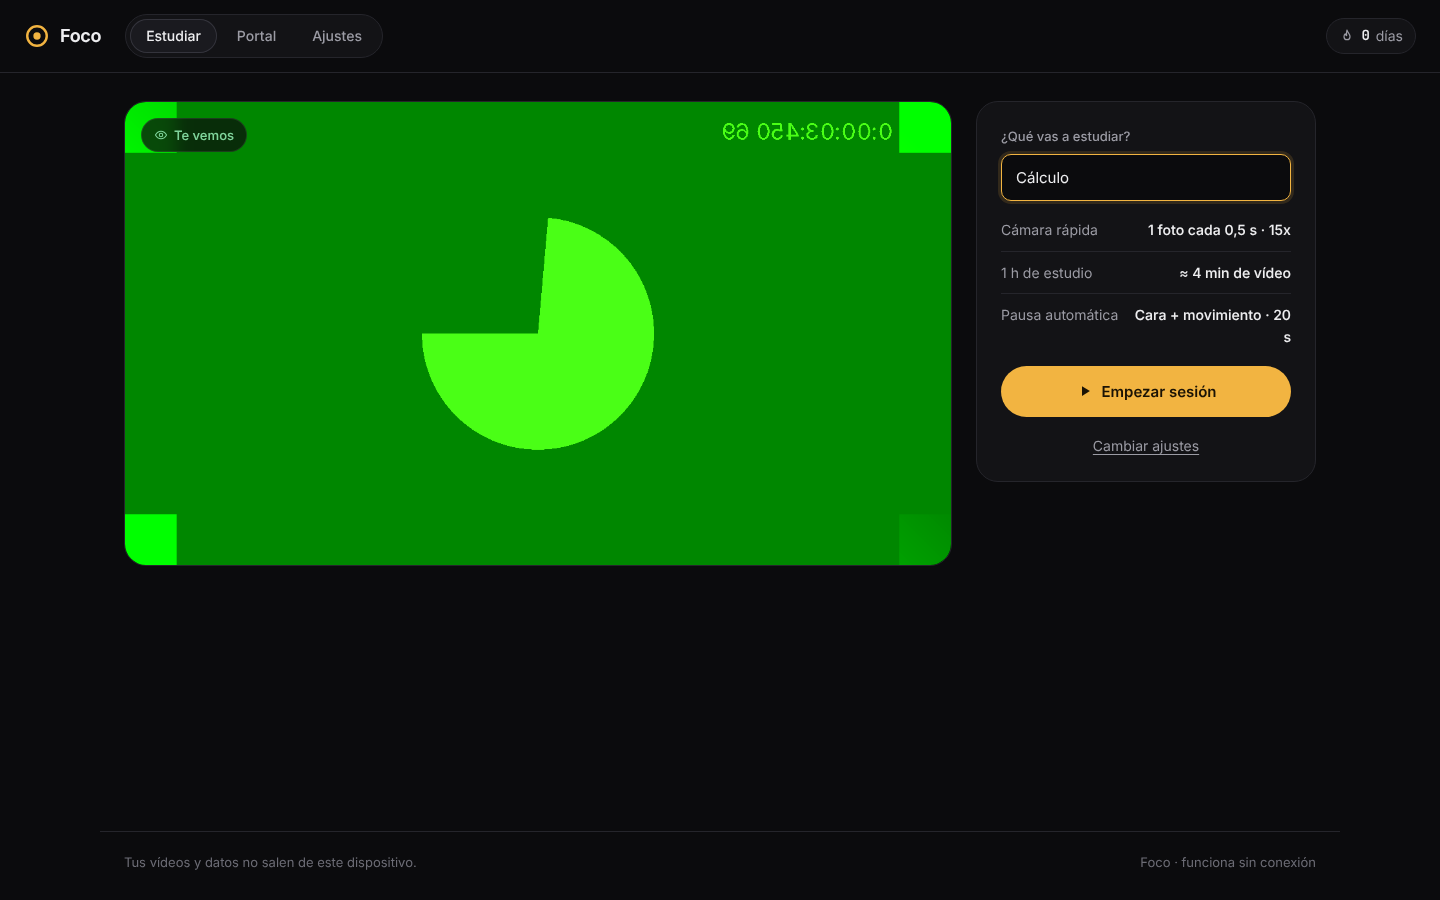
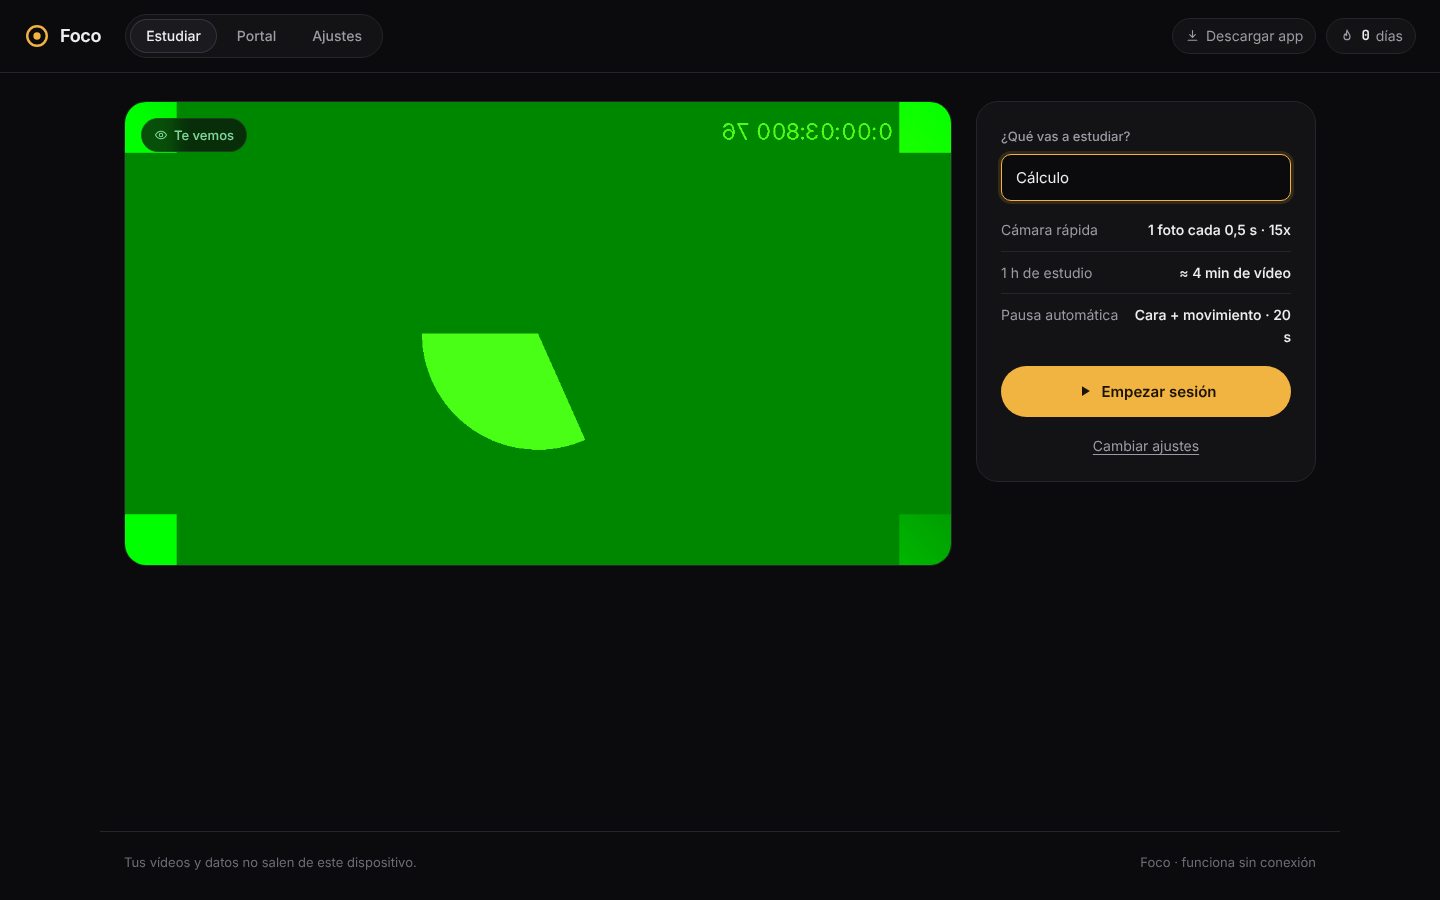
Instaladores en GitHub Releases y documentación de la app de escritorio
- release.yml: al subir una etiqueta vX.Y.Z compila dmg, exe y AppImage en
  macOS, Windows y Linux y los sube a la release (creada una sola vez).
- deploy.yml: la web no descarga el binario de Electron.
- README: descarga, primera apertura sin firma, dónde se guardan los datos.
- Capturas de la app de escritorio y capturas web regeneradas.

Claude-Session: https://claude.ai/code/session_01711A89UrXLR5phoRNTCftt

Changed region(s): [[0.375, 0.2489, 0.4688, 0.4978], [0.8125, 0.0311, 0.9062, 0.0622], [0.5, 0.1244, 0.5625, 0.1556]]

diff --git a/README.md b/README.md
@@ -2,7 +2,7 @@
 
 > Graba tus sesiones de estudio con la webcam, llévate un vídeo acelerado con la hora sobreimpresa y no rompas la racha. Todo en tu dispositivo, sin conexión.
 
-**Demo:** https://davidsmarandescu.github.io/Foco/
+**Demo:** https://davidsmarandescu.github.io/Foco/ · **App de escritorio** (macOS, Windows, Linux): [descargar](https://github.com/DavidSmarandescu/Foco/releases/latest)
 
 ![Sesión en curso](docs/screenshots/escritorio-grabando.png)
 
@@ -35,6 +35,34 @@ Los vídeos de estudio en cámara rápida (*study with me*, *timelapse*) son una
 - **Funciona sin red.** Un service worker precachea toda la app, incluido el runtime de visión y las fuentes, en la primera visita. Después funciona en modo avión.
 - **Copias de seguridad en JSON** (sesiones, rachas y ajustes) y botón para pedir almacenamiento persistente (`navigator.storage.persist()`) y que el navegador no borre los datos.
 
+## App de escritorio
+
+En la web, los datos viven en el navegador: si borras los datos del sitio (por ejemplo, al borrar las cookies), se pierden. La app de escritorio es la misma Foco, pero **guarda todo en tu ordenador**.
+
+**Descarga** la última versión en [Releases](https://github.com/DavidSmarandescu/Foco/releases/latest):
+
+| Sistema | Archivo |
+| --- | --- |
+| macOS con Apple Silicon (M1, M2, M3…) | `Foco-x.y.z-mac-arm64.dmg` |
+| macOS con Intel | `Foco-x.y.z-mac-x64.dmg` |
+| Windows 10/11 | `Foco-x.y.z-windows-setup.exe` |
+| Linux | `Foco-x.y.z-linux-x86_64.AppImage` |
+
+### Primera apertura
+
+La app no está firmada con un certificado de pago, así que el sistema avisa la primera vez. Solo hay que hacerlo una vez:
+
+- **macOS:** abre el `.dmg` y arrastra Foco a Aplicaciones. Al abrirla, macOS dirá que no puede verificar al desarrollador: pulsa **Hecho**, ve a **Ajustes del Sistema → Privacidad y seguridad**, baja hasta el aviso de Foco y pulsa **Abrir igualmente**. Si dice que la app «está dañada», ejecuta en Terminal `xattr -cr /Applications/Foco.app` y vuelve a abrirla. Después, acepta el permiso de cámara.
+- **Windows:** si aparece «Windows protegió su PC» (SmartScreen), pulsa **Más información → Ejecutar de todas formas** y sigue el instalador.
+- **Linux:** da permiso de ejecución y ábrela: `chmod +x Foco-*.AppImage && ./Foco-*.AppImage`.
+
+### Dónde se guardan tus datos
+
+- **Carpeta de Foco:** `Documentos/Foco` (se puede cambiar en Ajustes). Ahí se guarda cada vídeo como MP4 en `videos/` y tus sesiones, rachas y ajustes en `foco-datos.json`, que se actualiza tras cada cambio.
+- **Si reinstalas Foco** o cambias de usuario, la app detecta esa carpeta y ofrece **restaurar** sesiones y vídeos. Si eliges «Empezar de cero», la copia anterior se conserva como `foco-datos-anterior-<fecha>.json`.
+- **Borrar una sesión en Foco no borra su MP4** de la carpeta: los vídeos son tuyos.
+- Además, la app mantiene la cámara rápida aunque la ventana quede detrás de otra y la pantalla encendida mientras estudias.
+
 ## Decisiones técnicas
 
 | Decisión | Por qué |
@@ -45,8 +73,11 @@ Los vídeos de estudio en cámara rápida (*study with me*, *timelapse*) son una
 | **MediaPipe BlazeFace + movimiento** | Mirar hacia abajo para escribir puede despistar al detector de caras. Sumar el movimiento evita pausas falsas. El modo «Solo cara» es más estricto. |
 | **Tolerancia y reclasificación** de la ausencia | Un fallo puntual del detector no pausa nada. Cuando sí pausa, el tramo desde la última vez que se te vio pasa de «estudiado» a «ausente», así el tiempo es honesto. |
 | **Días locales** en rachas y calendario | Una sesión a las 00:30 cuenta para el día del calendario del usuario, y las rachas no se rompen con el cambio de hora (hay tests de ambos). |
-| **Lógica pura con tests** (`src/lib`) | Rachas, agregados, reloj de estudio, presencia, formatos y validación de ajustes y copias tienen tests en Vitest (32). |
+| **Lógica pura con tests** (`src/lib`) | Rachas, agregados, reloj de estudio, presencia, formatos, validación de ajustes y copias, y las escrituras en disco de la app de escritorio tienen tests en Vitest (39). |
 | **Vite + React + TypeScript**, sin backend | Se despliega como web estática en GitHub Pages con un workflow que pasa los tests antes de publicar. |
+| **Electron para escritorio**, con la misma web | Lleva el mismo Chromium con el que está probada la web (cámara, WebCodecs, MediaPipe), así que no hay sorpresas por motor. La web se sirve desde un protocolo propio (`app://foco`) con CSP estricta. La página no tiene acceso a Node (`contextIsolation`, `sandbox`): solo a un puente mínimo cuyas escrituras se validan y se limitan a la carpeta de Foco. |
+| **IndexedDB sigue siendo el almacén principal** en escritorio | Es el código ya probado. El disco es un espejo (MP4 + JSON) que sobrevive a reinstalar y que el usuario puede abrir y copiar. |
+| **Instaladores en GitHub Actions** | Al subir una etiqueta `vX.Y.Z`, se compilan el `.dmg`, el `.exe` y el `.AppImage` en macOS, Windows y Linux y se publican en la release. |
 
 ### Estructura
 
@@ -56,7 +87,9 @@ src/
   media/        cámara, superposición, detector de presencia, codificador, cierre de sesión
   storage/      IndexedDB y copias de seguridad
   components/   vistas: Estudiar, Portal, Ajustes, calendario
-scripts/        copia del runtime de MediaPipe a public/ e iconos
+  desktop/      puente con la app de escritorio y espejo en disco
+electron/       proceso principal, preload y utilidades de disco (app de escritorio)
+scripts/        copia del runtime de MediaPipe, iconos y pruebas de extremo a extremo
 ```
 
 ## Modelo de negocio
@@ -82,17 +115,36 @@ npm test
 npm run build
 ```
 
+App de escritorio en desarrollo (Vite + Electron con recarga):
+
+```bash
+npm run desktop:dev
+```
+
+Instalador para tu sistema, en `release/`:
+
+```bash
+npm run desktop:build
+```
+
+Para publicar una versión con instaladores para los tres sistemas, sube una etiqueta (actualiza antes `version` en `package.json`):
+
+```bash
+git tag v0.1.0 && git push origin v0.1.0
+```
+
 La cámara solo funciona en `localhost` o HTTPS. En el portal, **«Ver con datos de ejemplo»** carga 4 meses de sesiones ficticias para enseñar las rachas y el calendario sin esperar.
 
 ## Limitaciones conocidas
 
-- **Pestaña en segundo plano.** Los navegadores ralentizan los temporizadores de las pestañas ocultas, así que se pueden perder fotogramas si cambias de pestaña durante mucho tiempo. El tiempo estudiado se calcula con marcas de tiempo y sigue siendo correcto. Foco mantiene la pantalla encendida con la Wake Lock API.
+- **App de escritorio sin firmar.** macOS y Windows avisan en la primera apertura (ver arriba). Firmar y notarizar requiere cuentas de pago de Apple (99 $/año) y un certificado de Windows. Tampoco hay actualizaciones automáticas: las versiones nuevas se descargan desde Releases.
+- **Pestaña en segundo plano (web).** Los navegadores ralentizan los temporizadores de las pestañas ocultas, así que se pueden perder fotogramas si cambias de pestaña durante mucho tiempo. El tiempo estudiado se calcula con marcas de tiempo y sigue siendo correcto. Foco mantiene la pantalla encendida con la Wake Lock API.
 - **Detección de presencia.** Es heurística: con «Cara + movimiento», una mascota o una cortina moviéndose pueden contar como presencia. Con «Solo cara», mirar muy abajo puede pausar. La pausa tolerante (20 s, configurable) suaviza ambos casos.
 - **Margen antes de pausar.** Los fotogramas capturados durante el margen de tolerancia (antes de dar a alguien por ausente) se quedan en el vídeo, aunque ese tiempo se reclasifique como ausencia.
 - **Recuperación tras un cierre.** El progreso se guarda cada 5 s y en cada fotograma, así que un cierre inesperado puede perder los últimos segundos de cronómetro, nunca los fotogramas ya guardados.
 - **Sesiones que cruzan la medianoche.** Cuentan para el día en que empezaron.
 - **Primera visita.** Descarga unos 15 MB, sobre todo el runtime de visión, para poder funcionar sin red después. En navegadores sin SIMD en WASM, el detector se descarga la primera vez que se usa.
-- **Copias de seguridad.** No incluyen los vídeos (pesan demasiado). Se descargan uno a uno desde el portal.
+- **Copias de seguridad (web).** No incluyen los vídeos (pesan demasiado). Se descargan uno a uno desde el portal. En la app de escritorio los vídeos ya están en la carpeta de Foco.
 
 ## Roadmap
 
